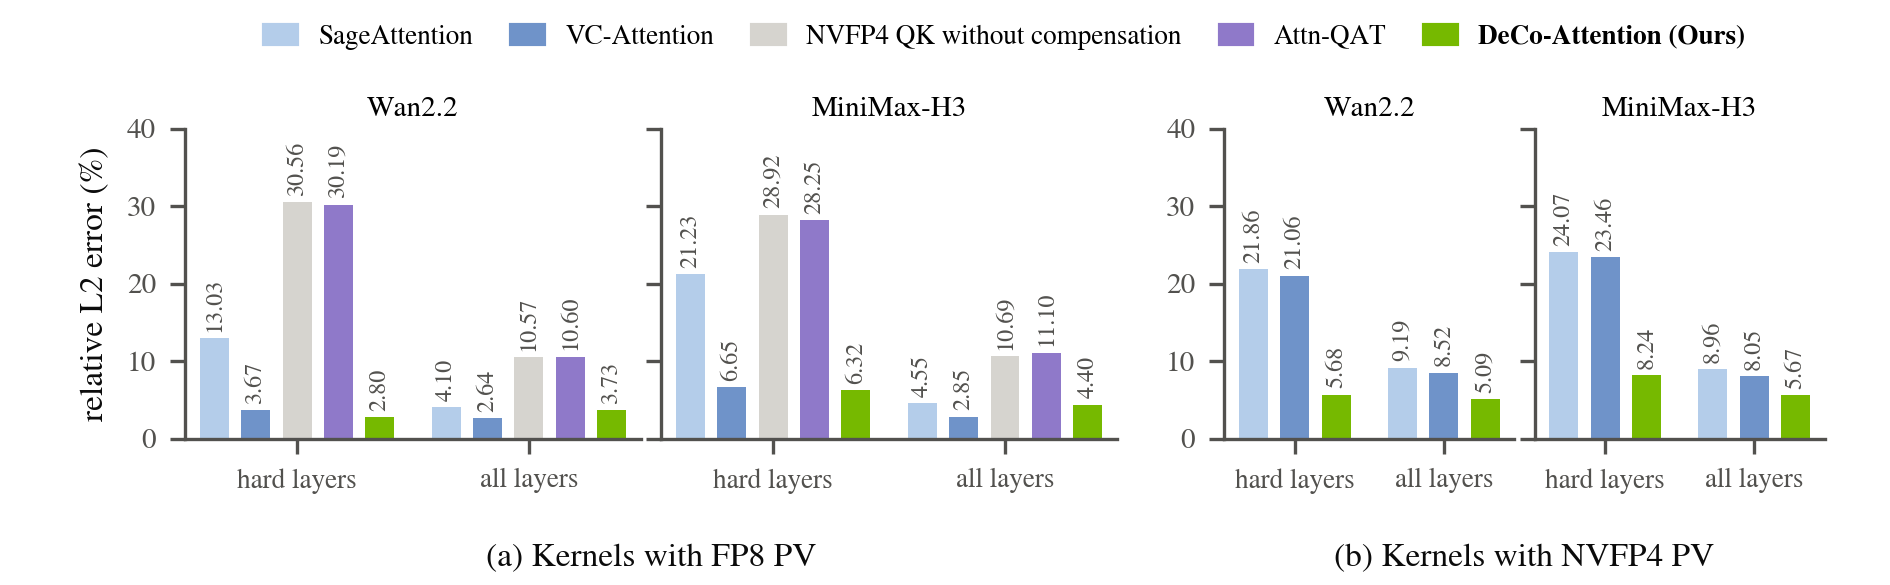
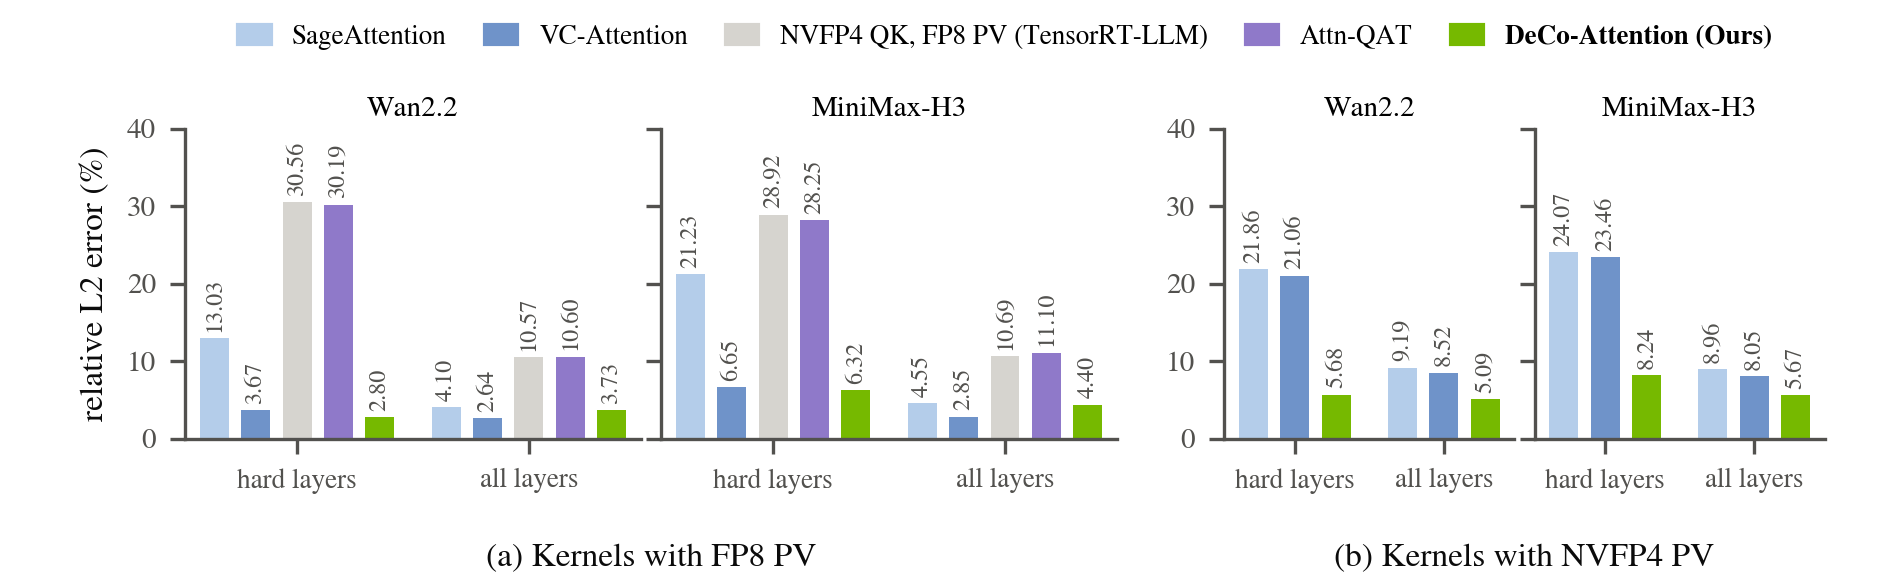
[None][doc] DeCo-Attention tech blog: refine the overview and the co-design summary, fix formula macros
The overview says what each half of the co-design solves and ends with the result in general terms, and the definition of the hard layers moves to its first use. The co-design summary says why the two halves need each other and that both carry over to other models and kernels. The accuracy results add the gap to INT8-QK attention, and the row-sum paragraph says why a sum of unrounded probabilities biases the output.

The formulas use \mathrm in place of \operatorname, which the GitHub preview does not allow. The kernel-accuracy figure names the uncompensated kernel as the other figures do.

Changed region(s): [[0.1249, 0.0308, 0.9365, 0.0923]]

diff --git a/docs/source/blogs/tech_blog/blog37_DeCo_Attention_Accurate_and_Fast_4bit_Attention_for_Video_Generation_in_TensorRT-LLM.md b/docs/source/blogs/tech_blog/blog37_DeCo_Attention_Accurate_and_Fast_4bit_Attention_for_Video_Generation_in_TensorRT-LLM.md
@@ -85,7 +85,7 @@ This blog explains how DeCo-Attention works and why. The sections below cover wh
 
 ## Overview
 
-DeCo-Attention is a co-design of an algorithm and a kernel. The algorithm decomposes the rounding error of Q and K and adds the main part of that error back inside the same 4-bit matrix product, which takes neither a second product nor retraining nor calibration data. The CuTe DSL kernels shorten the softmax between the two matrix products, which lets the faster products shorten the kernel. Figure 3 shows the two halves of the design.
+DeCo-Attention is a co-design of an algorithm and a kernel, and each half solves one problem of 4-bit attention. The algorithm, principal residual compensation, makes the 4-bit QK product accurate. It decomposes the rounding error of Q and K and adds the main part of that error back inside the same 4-bit matrix product, without a second product, retraining, or calibration data. The kernel, written in CuTe DSL, turns the speed of the 4-bit product into faster attention. Once both matrix products are fast, the softmax between the two products limits the kernel, and three optimizations of the softmax remove this limit. Figure 3 shows the two halves of the design.
 
 <p align="center">
   <img src="../media/tech_blog37_overview.png" alt="Overview of DeCo-Attention: preparation per head and the attention kernel per tile" width="1000">
@@ -93,9 +93,10 @@ DeCo-Attention is a co-design of an algorithm and a kernel. The algorithm decomp
 
 <p align="center"><sub><em>Figure 3. The preparation in (a) runs once per head. The attention kernel in (b) runs per tile of queries and keys.</em></sub></p>
 
-The preparation rotates Q and K by a Hadamard matrix H and rounds both to NVFP4. The rounding residuals, projected on a basis B of a few principal directions estimated from 1/256 of the tokens, become extra channels next to the rounded ones, and V is smoothed by subtracting the block means. The kernel computes the scores S with the compensation in one NVFP4 MMA over the extended operands, forms the probabilities P with I-ExpCast without the special-function unit, and runs the PV MMA over the smoothed V and a column of ones that returns the row sum l with the output. The lazy rescale skips most rescales, and one high-precision MMA adds the block means of V back.
+- The preparation rotates Q and K by a Hadamard matrix H and rounds both to NVFP4. It then projects the rounding residuals on a basis B of a few principal directions, estimated from 1/256 of the tokens, and appends the projections as extra channels next to the rounded ones. V is smoothed by subtracting the block means.
+- The kernel computes the scores S together with the compensation in one NVFP4 MMA over the extended operands. I-ExpCast then forms the probabilities P without the special-function unit, and the PV MMA runs over the smoothed V and a column of ones, which returns the row sum l with the output. The lazy rescale skips most rescales, and one high-precision MMA adds the block means of V back.
 
-The hard layers named throughout this blog are the three layers of Wan2.2 where per-tensor FP8 attention is least accurate. On the hard layers, the compensation brings the error of an NVFP4 QK down to the level of an FP8 QK, and end to end DeCo-Attention reaches the generation quality of methods that keep QK in FP8.
+With both halves, DeCo-Attention is the fastest attention kernel of our comparison on GB300, VR200, and RTX PRO 6000, while its accuracy and its generation quality reach those of methods that keep QK in FP8.
 
 ## Background
 
@@ -123,7 +124,7 @@ TensorRT-LLM VisualGen already ships an NVFP4 QK, FP8 PV attention, and the next
 
 ## Error Analysis of 4-Bit Attention
 
-Which part of attention produces the error? We quantize one product at a time and measure the relative L2 error of the attention output against FP32 attention, on the hard layers and over all layers of Wan2.2 (Figure 5(a)). In the same format, rounding Q and K costs several times the accuracy of rounding P and V. On the hard layers, an NVFP4 QK alone gives an error of 30.1%, and an NVFP4 PV alone gives 7.1%. Therefore, the problem to solve is reducing the error of the QK product.
+Which part of attention produces the error? We quantize one product at a time and measure the relative L2 error of the attention output against FP32 attention, on the hard layers and over all layers of Wan2.2 (Figure 5(a)). The hard layers are the three layers of Wan2.2 where per-tensor FP8 attention is least accurate. In the same format, rounding Q and K costs several times the accuracy of rounding P and V. On the hard layers, an NVFP4 QK alone gives an error of 30.1%, and an NVFP4 PV alone gives 7.1%. Therefore, the problem to solve is reducing the error of the QK product.
 
 <p align="center">
   <img src="../media/tech_blog37_motivation.png" alt="Quantization error per product and format, and share of the energy of K held by r directions" width="560">
@@ -276,11 +277,11 @@ I-ExpCast, our improved ExpCast, does not use the MUFU instructions and still ro
 
 The idea is to form each probability in FP16 and leave the final rounding to a hardware conversion. FP16 has ten mantissa bits and represents every value of E4M3 and of E2M1 exactly. A conversion from FP16 therefore rounds to the nearest code of either format, subnormal codes included. What remains is to produce the FP16 value cheaply. Let *x* be the base-2 logarithm of a scaled probability, which is a linear function of the score. Read as an integer, the FP16 bit pattern of 2<sup>*x*</sup> is close to a linear function of *x*.
 
-$$\operatorname{bits}_{\mathrm{FP16}}\big(2^x\big) \approx 1024\,(x + 15)$$
+$$\mathrm{bits}_{\mathrm{FP16}}\big(2^x\big) \approx 1024\,(x + 15)$$
 
 I-ExpCast evaluates this linear function in the subnormal range of FP32, where the values are evenly spaced and the bit pattern of a value is the multiple of the spacing. One FMA therefore maps a score to the bit pattern and rounds the pattern to an integer in the same step. A saturating pack then narrows the pattern to the 16 bits of FP16, and the last step converts the FP16 value to E4M3 or E2M1.
 
-$$\hat p_j = \mathcal{Q}\Big(\operatorname{sat}_{16}\big(\operatorname{bits}_{\mathrm{FP32}}(a\,s_j + c)\big)\Big)$$
+$$\hat p_j = \mathcal{Q}\Big(\mathrm{sat}_{16}\big(\mathrm{bits}_{\mathrm{FP32}}(a\,s_j + c)\big)\Big)$$
 
 The same routine serves FP8 and FP4 probabilities, and Figure 13 compares the decoded probabilities with the exact ones. I-ExpCast matches the exact exponential with rounding over the whole range including the subnormal codes, where ExpCast drops to zero. Direct-P departs from the exact value over much of the range. With exact scores and only P rounded to FP4, the Direct-P codes give an error of 5.06% over all layers of Wan2.2 against 1.90% for I-ExpCast.
 
@@ -302,7 +303,7 @@ Inside the kernel, the way of forming P shows directly in the time (Figure 14). 
 
 The softmax needs the sum of each row of probabilities, and computing the sum next to the exponentials adds work where the kernel is already limited. Since the tensor cores have spare capacity, a column of ones appended to V lets the PV MMA return the row sum of P with the output, which moves the work to the tensor cores.
 
-Figure 15 compares this row sum with a sum on the ALU. An ALU sum of the same E4M3 values gives the same error and takes 7.2% longer, so the row sum in the PV MMA costs no accuracy. A sum of the probabilities before the rounding to E4M3 is also slower, and its error is slightly higher, because it no longer matches the rounded P that the PV product multiplies.
+Figure 15 compares this row sum with a sum on the ALU. An ALU sum of the same E4M3 values gives the same error and takes 7.2% longer, so the row sum in the PV MMA costs no accuracy. A sum of the probabilities before the rounding to E4M3 is also slower and slightly less accurate. The output is the PV product divided by the row sum, so when the row sum uses the unrounded P while the product uses the rounded P, the attention weights no longer sum to one and the output is biased.
 
 <p align="center">
   <img src="../media/tech_blog37_row_sum.png" alt="Row sum of P in the PV MMA and on the ALU" width="520">
@@ -342,7 +343,7 @@ The ablation gives three conclusions:
 - **The softmax bottleneck has to be removed to turn the 4-bit QK into real speedup.** With compensation only, the softmax bounds the kernel and hides the gain of the 4-bit QK, 79.0 ms against 82.1 ms for the same kernel with an FP8 QK. I-ExpCast, the row sum in the PV MMA, and the lazy rescale bring the kernel to 55.8 ms. The optimized kernel also does more work per cycle and draws more power, which lowers the SM clock under the power limit from 2017 to 1582 MHz and gives back part of the gain.
 - **The kernel optimizations must not cost accuracy.** I-ExpCast and the lazy rescale change the numerics of the softmax, yet the error stays between 2.92% and 2.95% through all three additions, because I-ExpCast rounds to the nearest code, subnormal codes included, and therefore combines with the lazy rescale. V smoothing, the last piece, costs 2.2 ms and lowers the error to 2.80%.
 
-DeCo-Attention addresses each of these points, the first with the compensation and the other two with the kernel optimizations. The complete kernel is both more accurate and faster than the NVFP4 QK, FP8 PV attention without compensation, and the MMAs nearly bound its time. The 4-bit QK matters for that bound. With an FP8 QK, the slower FP8 MMAs bound the kernel earlier, and the same four changes speed up the FP8-QK reference by 1.20x against 1.36x with the NVFP4 QK, or 1.67x at a fixed clock. The complete DeCo kernel is 1.17x faster than that reference and more accurate on the hard layers.
+This is why DeCo-Attention is a co-design, since neither half is enough alone. The compensation alone gives an accurate 4-bit QK that is hardly faster than an FP8 QK. The kernel optimizations alone gain less, because with an FP8 QK the slower FP8 MMAs bound the kernel earlier. The same four changes speed up the FP8-QK reference by 1.20x against 1.36x with the NVFP4 QK, or 1.67x at a fixed clock. Together, the two halves bring out both the accuracy and the speed of 4-bit attention. The complete kernel is 1.17x faster than the optimized FP8-QK reference and more accurate on the hard layers, and the MMAs nearly bound its time. Both halves are also general. The compensation needs no training, calibration, or model-specific code, and the softmax optimizations work for FP8 and FP4 probabilities alike, so both carry over to other models and attention kernels.
 
 ## Results
 
@@ -378,7 +379,7 @@ For the end-to-end quality we generate videos for the 100 prompts of MovieGen Be
 
 <p align="center"><sub><em>Figure 20. End-to-end quality on four video models against BF16 attention, as the mean over 100 prompts. QK/PV gives the bit widths of the two products, and DeCo-Attention is in bold. Blue cells mark the best PSNR, SSIM, and LPIPS within each group with a 4-bit QK. SageAttention2 and VC-Attention use the default INT8 QK on B200, and the rows with an FP8 QK run on GB300. The means marked † are reported by VC-Attention.</em></sub></p>
 
-With FP8 PV, DeCo-Attention reaches the quality of the FP8-QK methods. DeCo-Attention is more accurate than MXFP8 and than SageAttention2 with an FP8 QK on every model. Against VC-Attention with an FP8 QK, DeCo-Attention is more accurate on Wan2.2 and LongCat-Video and less on the other two models. Compared with the existing NVFP4 QK, FP8 PV attention, the compensation gains about 3 to 5 dB of PSNR on every model. With NVFP4 PV, DeCo-Attention has better PSNR and LPIPS than SageAttention3 and the 4-bit VC-Attention on every model, and the fully NVFP4 DeCo kernel also matches SageAttention2 with an FP8 QK on every model, with both products in 4 bits.
+With FP8 PV, DeCo-Attention reaches the quality of the FP8-QK methods. DeCo-Attention is more accurate than MXFP8 and than SageAttention2 with an FP8 QK on every model. Against VC-Attention with an FP8 QK, DeCo-Attention is more accurate on Wan2.2 and LongCat-Video and less on the other two models. Compared with the existing NVFP4 QK, FP8 PV attention, the compensation gains about 3 to 5 dB of PSNR on every model. DeCo-Attention also narrows the gap of a 4-bit QK to INT8-QK attention, from 5 to 6 dB of PSNR behind VC-Attention with an INT8 QK to 1 to 3 dB. The INT8-QK methods need the INT8 tensor cores of B200, whereas DeCo-Attention runs on the FP4 tensor cores of GB300, VR200, and RTX PRO 6000. With NVFP4 PV, DeCo-Attention has better PSNR and LPIPS than SageAttention3 and the 4-bit VC-Attention on every model, and the fully NVFP4 DeCo kernel also matches SageAttention2 with an FP8 QK on every model, with both products in 4 bits.
 
 ## Usage in TensorRT-LLM VisualGen
 
